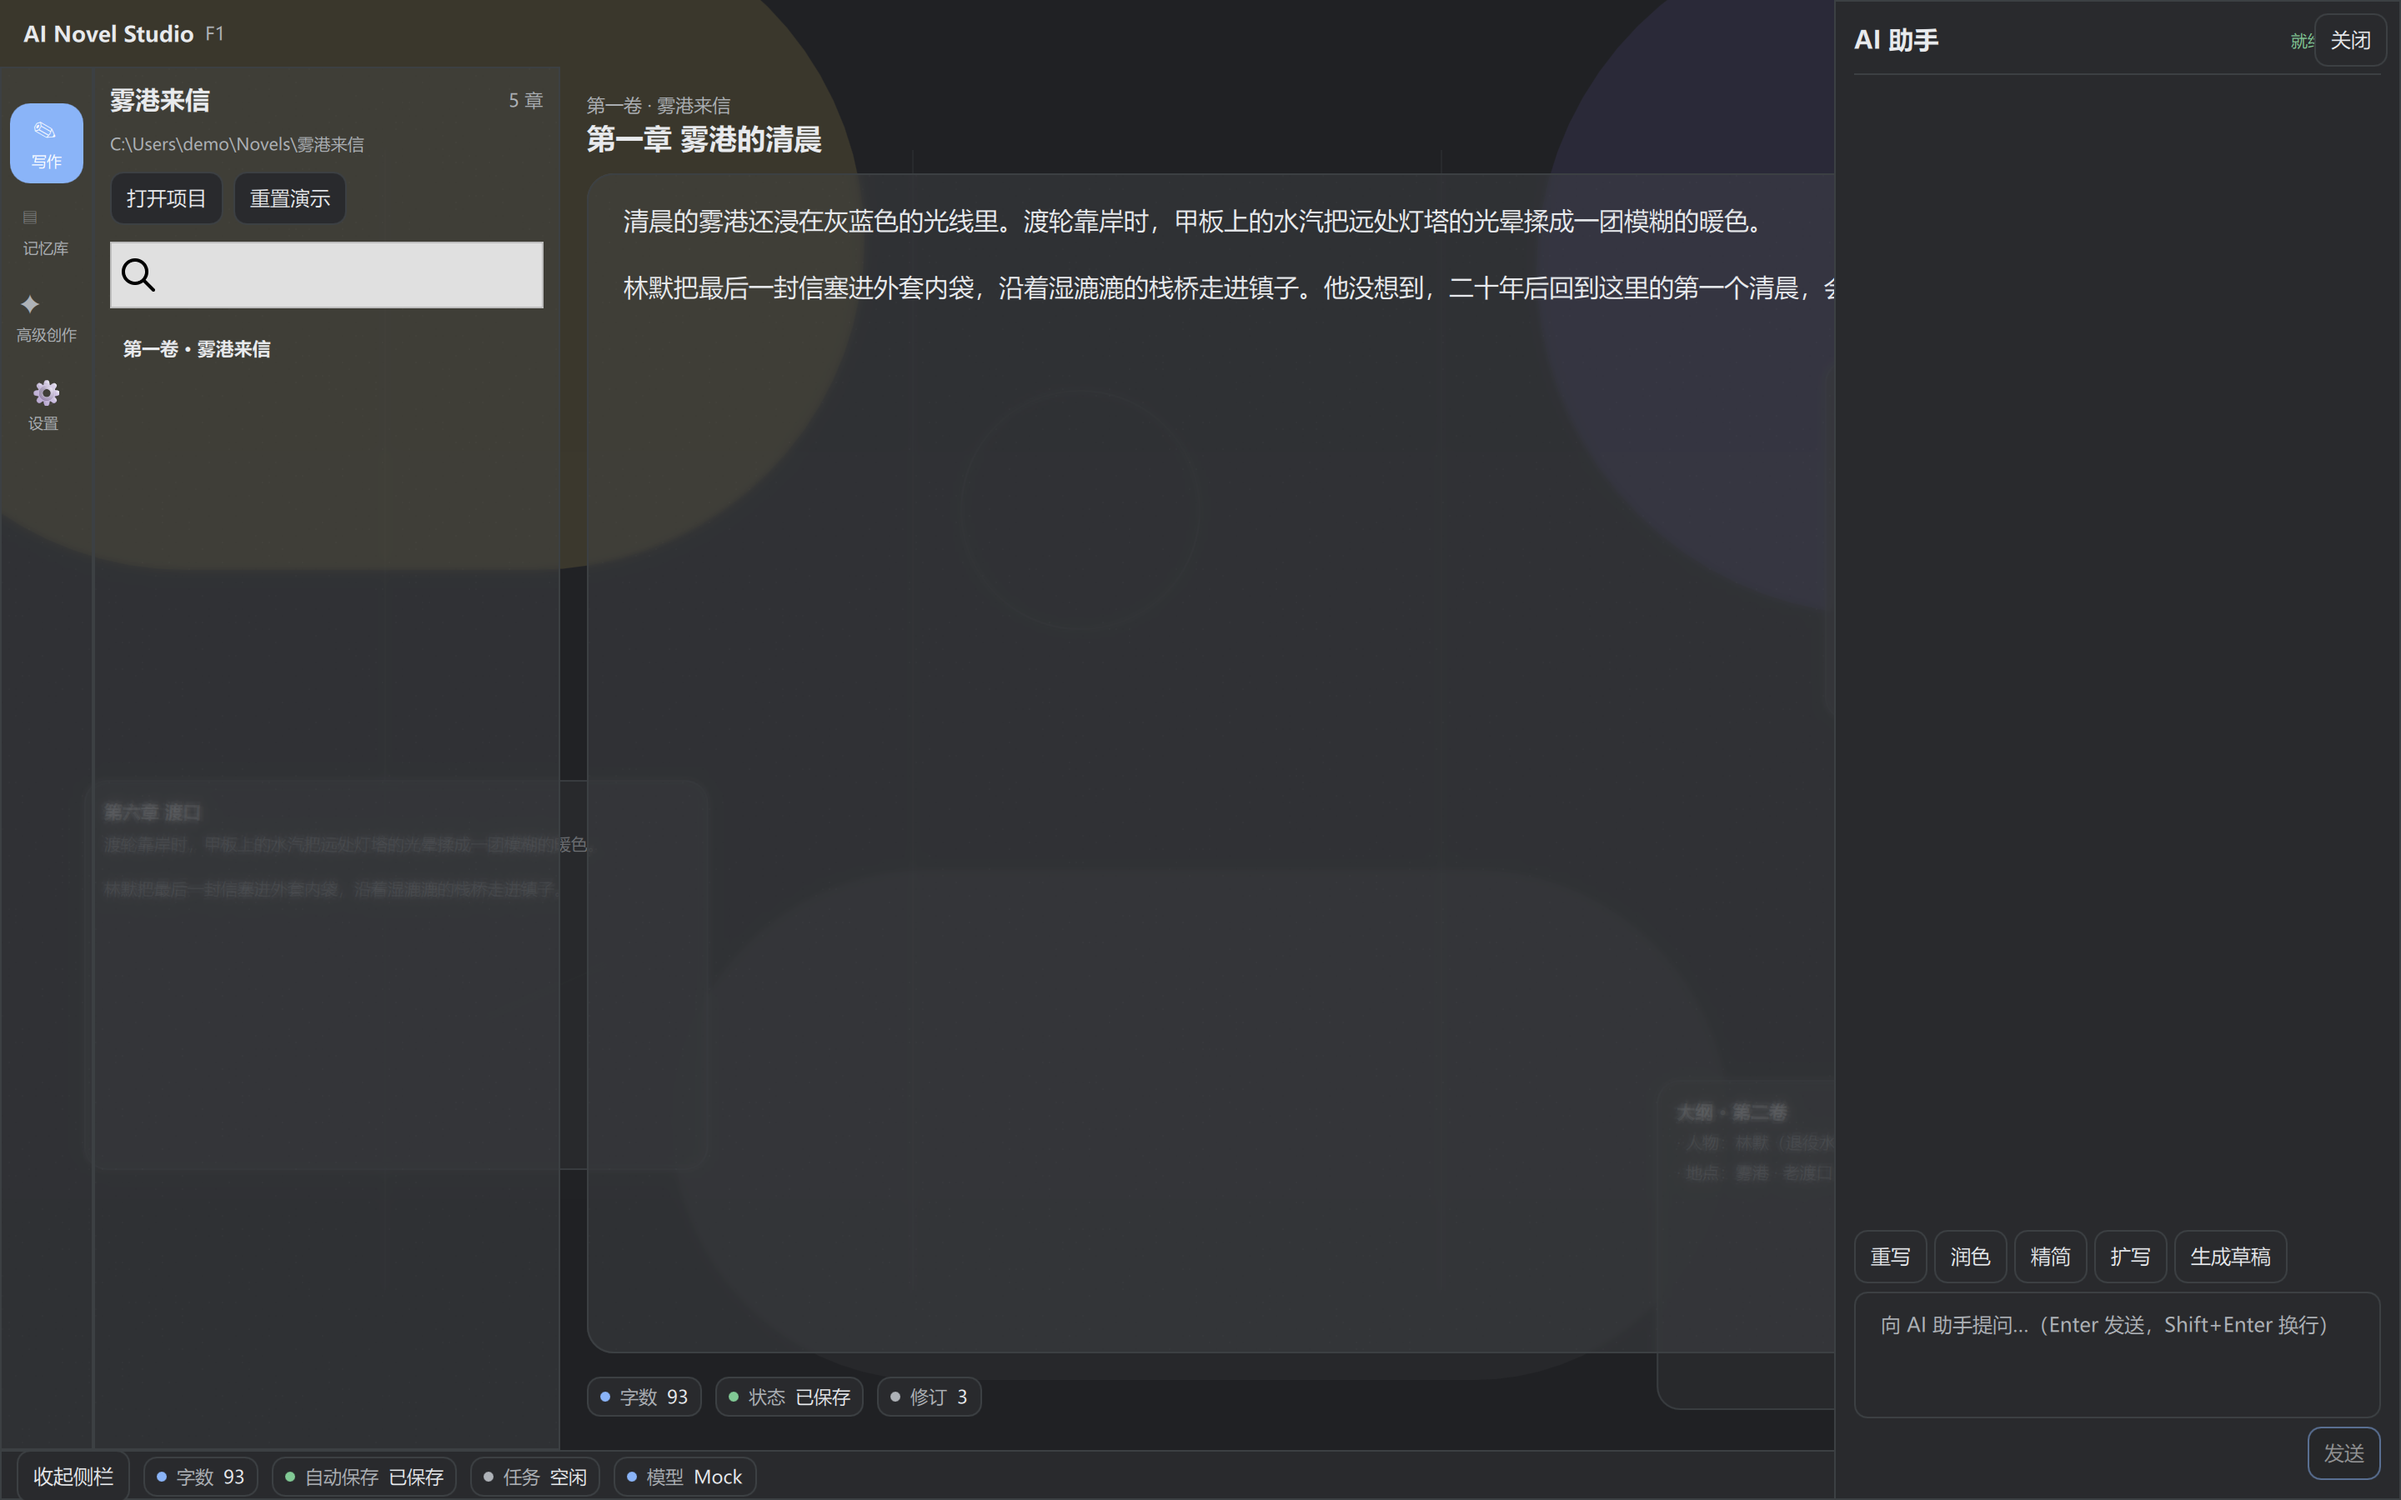
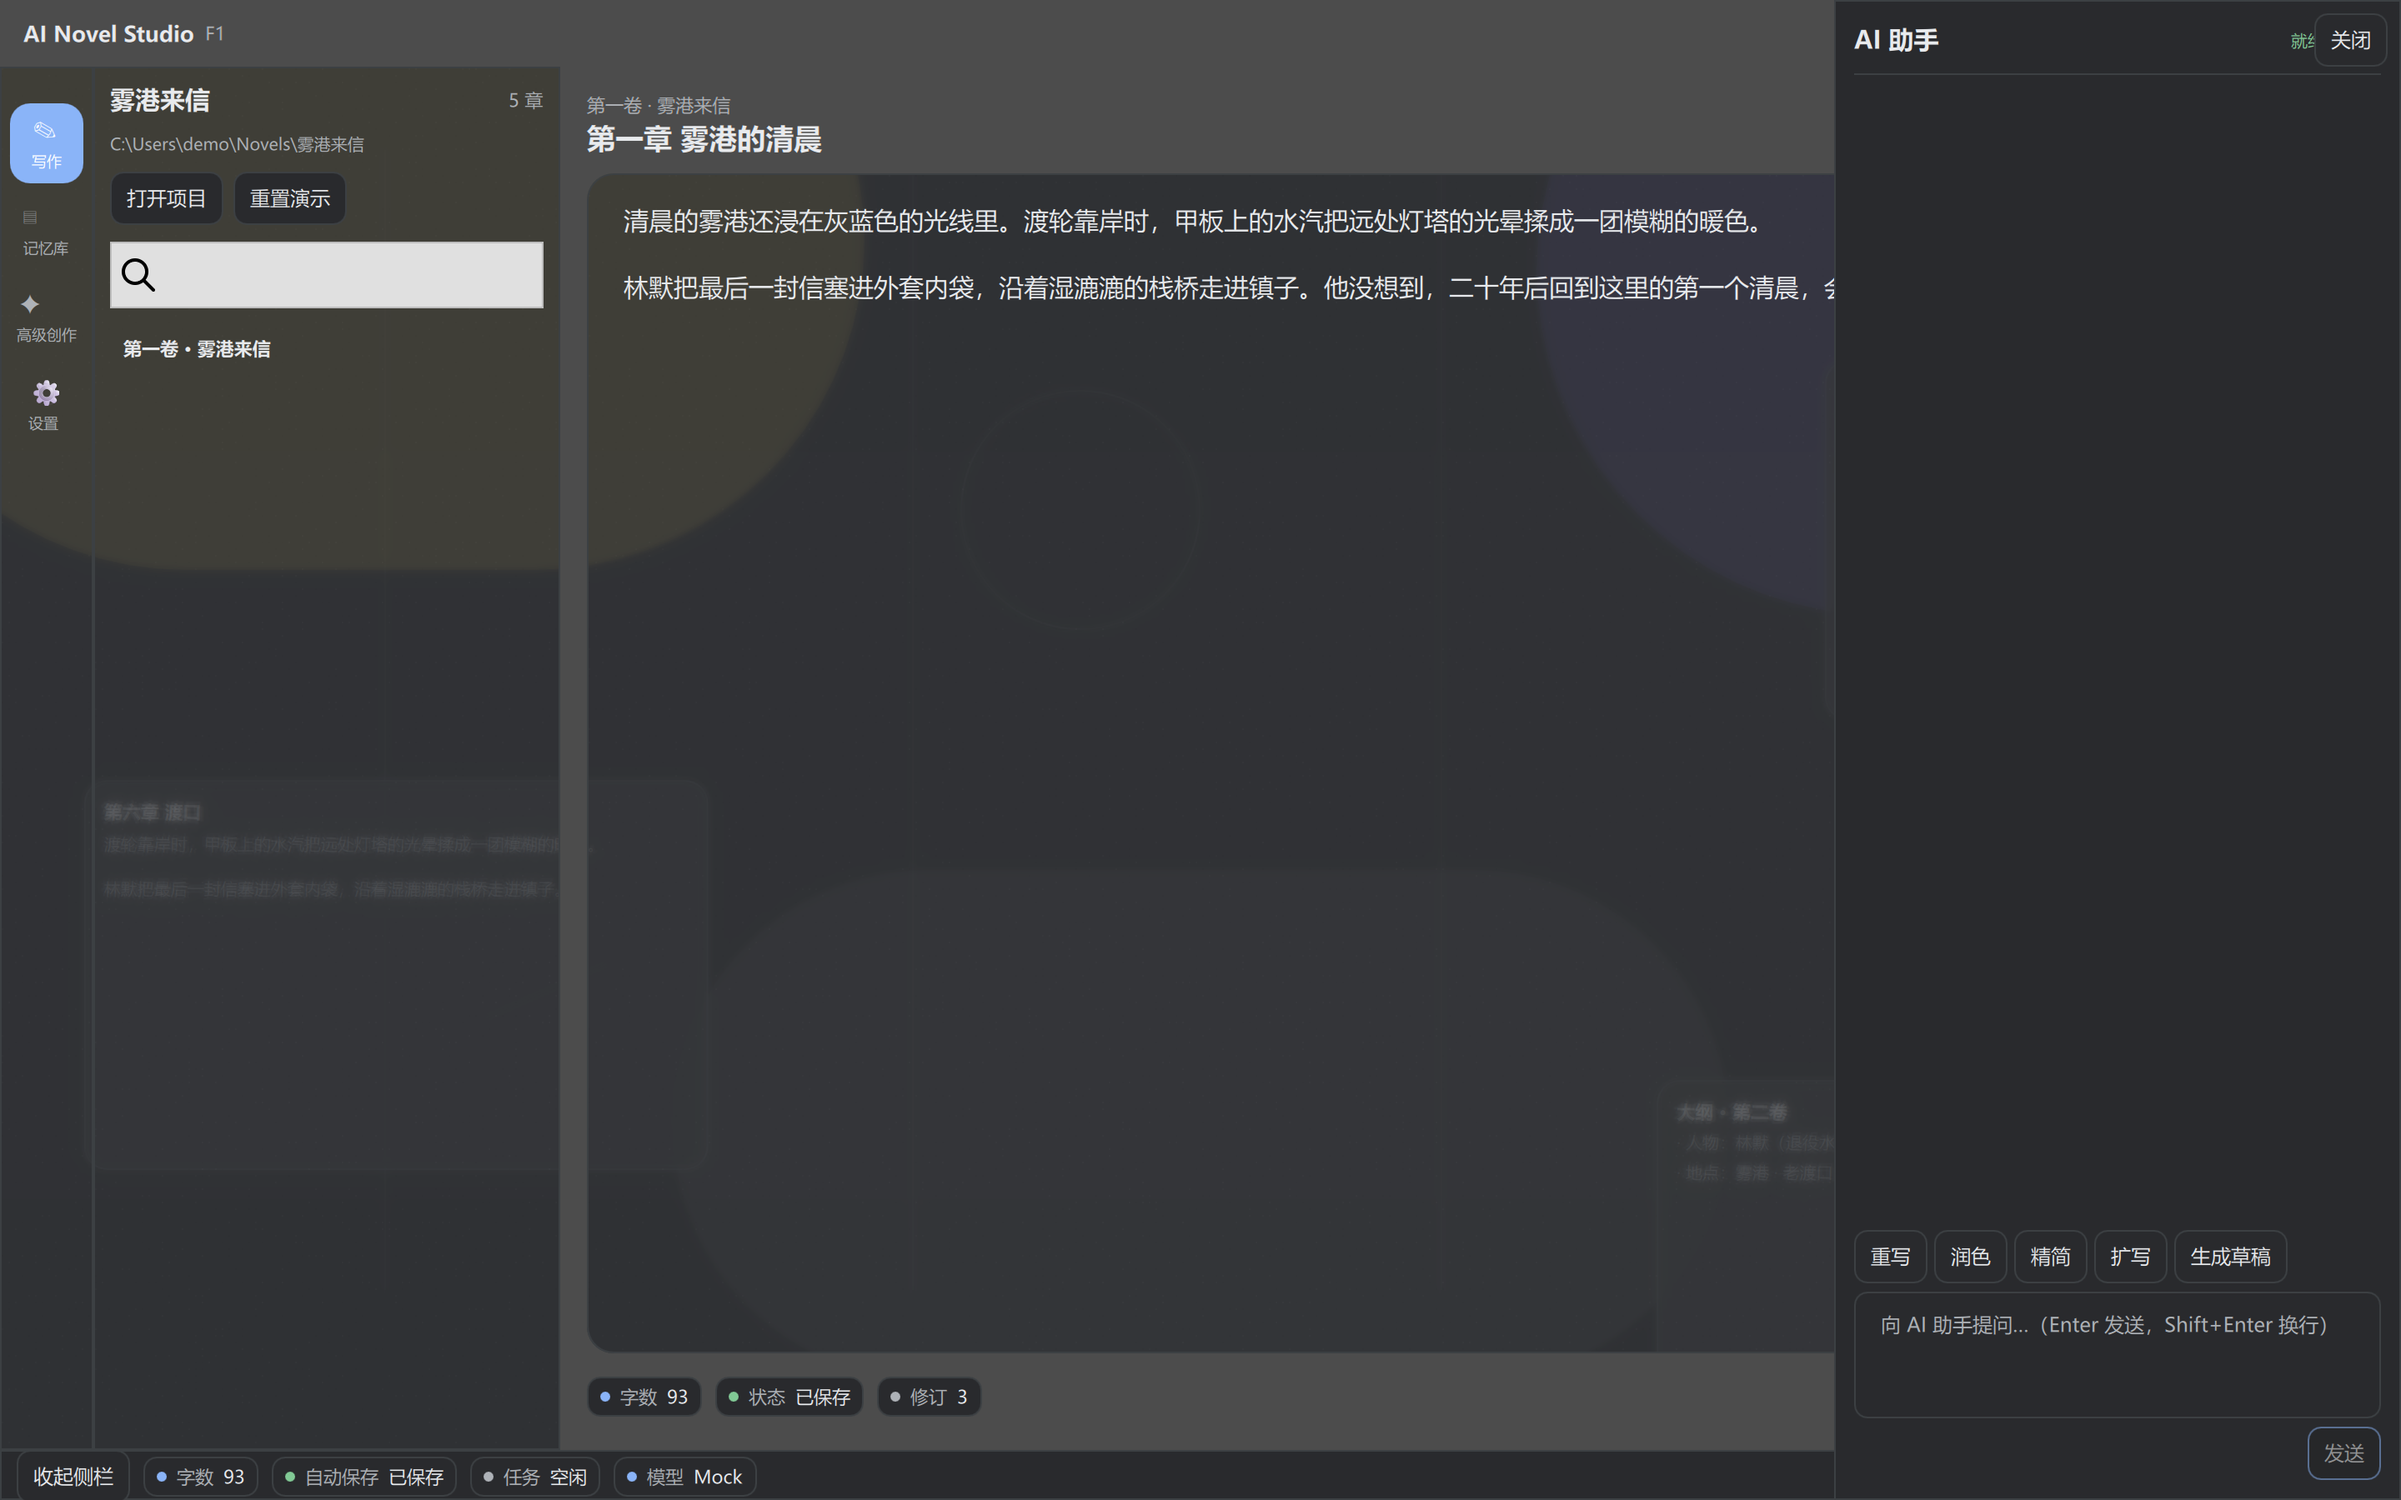
fix(frontend): hide in-app decorative backdrop in native glass mode (DWM is the only backdrop)

Changed region(s): [[0.0, 0.0, 0.7812, 0.9644]]

diff --git a/src/ai_novel_studio/ui_qml/qml/App.qml b/src/ai_novel_studio/ui_qml/qml/App.qml
@@ -22,6 +22,7 @@ ApplicationWindow {
     property bool nativeGlass: typeof UseNativeGlass !== "undefined" && UseNativeGlass
     readonly property bool nativeActive:
         typeof NativeGlassBridge !== "undefined" && NativeGlassBridge.nativeActive
+    readonly property bool nativeGlassActive: nativeGlass && nativeActive
     flags: window.nativeGlass ? Qt.FramelessWindowHint : Qt.Window
     color: window.nativeGlass && window.nativeActive
         ? "transparent" : Theme.tokens.color.bgCanvas
@@ -93,10 +94,14 @@ ApplicationWindow {
 
     // App-controlled backdrop (glass-UI route): the window stays opaque and
     // this themed layer is the blur source for the Acrylic columns above.
+    // In BlockHelm-style native glass mode this decorative layer is hidden:
+    // the DWM Desktop Acrylic behind the window is the ONLY backdrop, so no
+    // in-app cards/glows/geometry clutter the glass.
     BackdropLayer {
         id: backgroundLayer
         objectName: "f1BackgroundLayer"
         anchors.fill: parent
+        visible: !window.nativeGlassActive
         washEnabled: false
     }
 

diff --git a/tests/ui_qml/test_native_glass_shell.py b/tests/ui_qml/test_native_glass_shell.py
@@ -153,6 +153,12 @@ def test_native_glass_shell_uses_tint_not_in_app_blur(qtbot: QtBot) -> None:
         alpha = QColor(surface.property("nativeGlassFill")).alpha()
         assert 0 < alpha < 255, f"{name} should be a translucent tint"
 
+    # BlockHelm-style: the in-app decorative backdrop is hidden so the DWM
+    # material behind the window is the only backdrop.
+    backdrop = _find_item(window.contentItem(), "f1BackgroundLayer")
+    assert backdrop is not None
+    assert backdrop.property("visible") is False
+
 
 def test_shell_glass_retry_timer_is_bounded(qtbot: QtBot) -> None:
     """The DWM retry counter exists and stays bounded for tests."""
